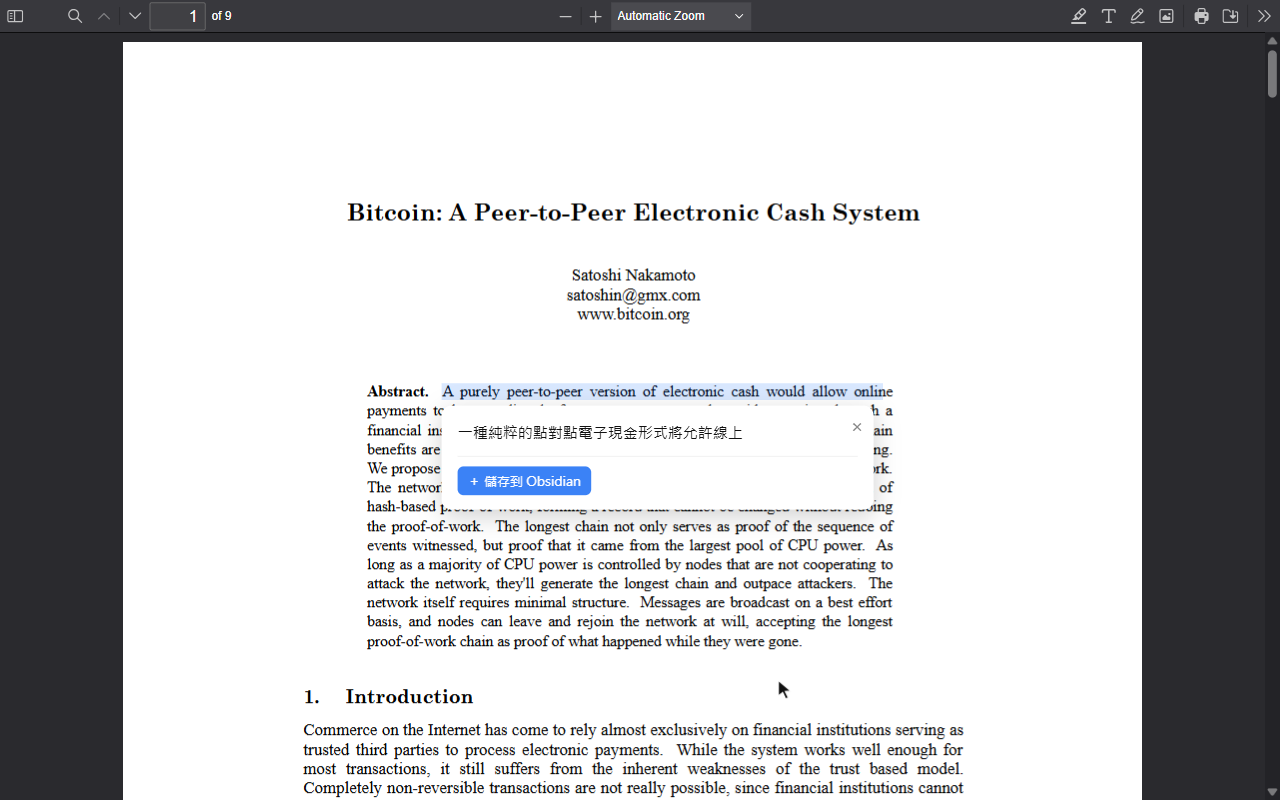
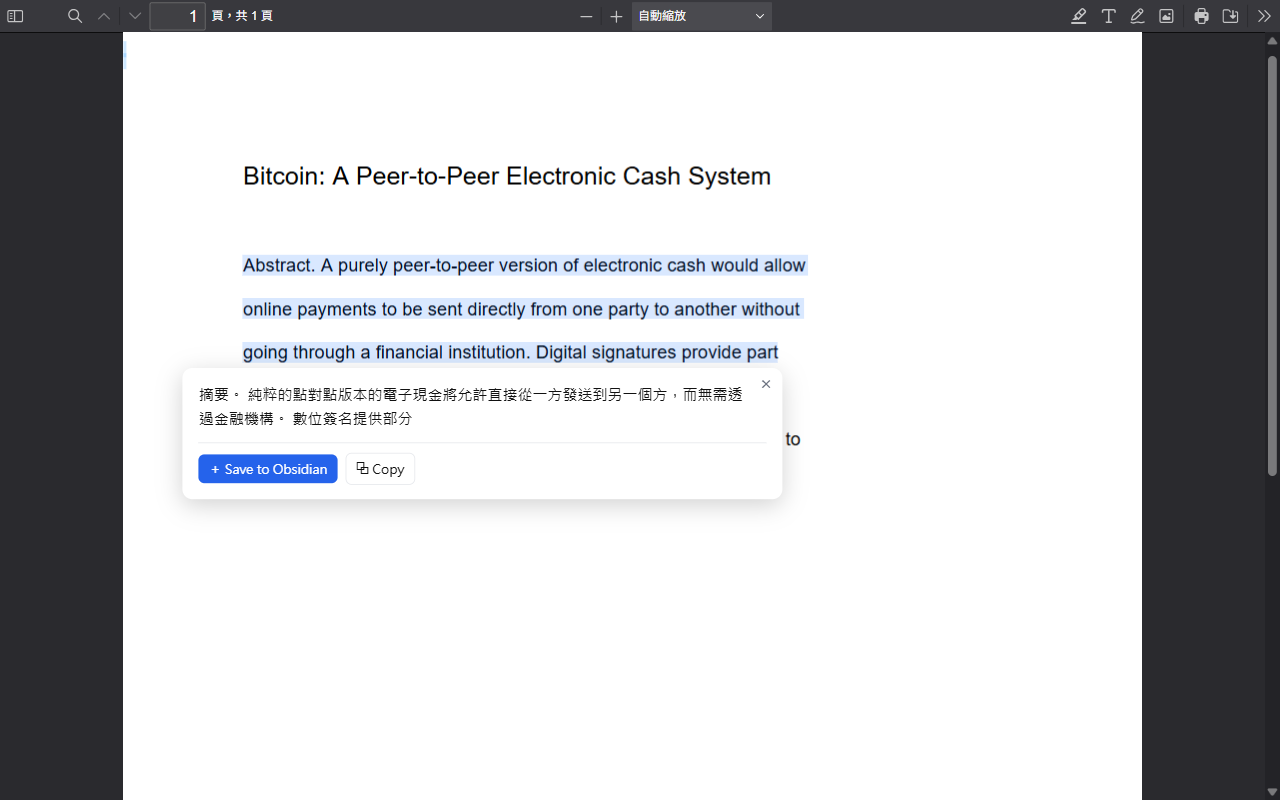
docs(store): re-shoot the listing screenshots, and fix copy that had gone wrong
The four store screenshots predated whole-page translation and showed an
Ollama-only product. Re-shot against 2.11.0 on the default built-in
engine, at exactly 1280x800, leading with whole-page bilingual
translation because the first screenshot is what appears in search
results.

The copy was worse than the images. It told the reader to set
OLLAMA_ORIGINS before starting the server — a step 2.5.0 removed — and
listed Ollama as a requirement, which 2.7.0 removed when Chrome's
built-in translator became the default. Both descriptions are rewritten
for what the extension is now: nothing to install, Ollama as the optional
stronger engine.

Also corrects a permissions claim that had quietly gone stale in three
places. The manifest ships storage, activeTab, contextMenus and
declarativeNetRequest plus <all_urls>; PRIVACY.md and the store's privacy
answers listed only the first two and the host permission, and the README
said "storage and activeTab". A missing justification is a rejected
submission, and an incomplete privacy policy is worse than that. All
three now list every permission, with declarativeNetRequest explained as
what it is: one session rule scoped to requests with no owning tab and to
the configured server's URL, so a web page's requests cannot match it.

PRIVACY.md also described every translation as going to an Ollama server.
On the default engine no network request is made at all, which is the
stronger claim and was the one missing.

diff --git a/PRIVACY.md b/PRIVACY.md
@@ -1,6 +1,6 @@
 # Privacy Policy — OpenRead
 
-_Last updated: 2026-07-10_
+_Last updated: 2026-08-06_
 
 OpenRead is a local-first browser extension. It is designed so that your data
 never leaves your machine.
@@ -13,21 +13,26 @@ receives no data of any kind from your use of the extension.
 
 ## What happens to the text you select
 
-When you trigger a translation (or an optional capture enrichment), the
-selected text is sent to **your own Ollama server** at the URL you configure in
-the popup — by default `http://localhost:11434`, i.e. your own computer.
-Inference runs entirely on that machine. The text is not sent to the developer
-or to any third party.
+It depends on which engine you have chosen in the popup.
 
-If you point the server URL at a remote machine, the text goes to that machine
-— which you chose and control.
+- **Chrome's built-in translator (the default).** The text is handed to
+  Chrome's own on-device translation model. It does not leave the browser, and
+  the extension makes no network request at all. Chrome downloads a language
+  pack from Google the first time you use a language pair; that download
+  carries the language pair, not your text.
+- **Ollama.** The text is sent to the server at the URL you configure — by
+  default `http://localhost:11434`, i.e. your own computer — and inference runs
+  on that machine. If you point the URL at a remote machine, the text goes to
+  that machine, which you chose and control.
+
+In neither case is the text sent to the developer or to any third party.
 
 ## What is stored, and where
 
-- **Settings** (Ollama server URL, model name, target language, Obsidian vault
-  and folder, enrichment toggle) are stored with `chrome.storage.sync`. They
-  stay inside your browser profile; Chrome may sync them across your own
-  signed-in browsers as with any extension setting.
+- **Settings** (engine, Ollama server URL, model name, target language,
+  Obsidian vault and folder, enrichment toggle) are stored with
+  `chrome.storage.sync`. They stay inside your browser profile; Chrome may sync
+  them across your own signed-in browsers as with any extension setting.
 - **Captured notes** ("Save to Obsidian") are written to your local Obsidian
   vault via the `obsidian://` URL scheme, or copied to your clipboard as a
   fallback. They are not transmitted anywhere else.
@@ -35,15 +40,26 @@ If you point the server URL at a remote machine, the text goes to that machine
 ## Permissions
 
 - `storage` — persist the settings above.
-- `activeTab` / host access on all sites — inject the selection-translate UI
-  on pages you read and route `.pdf` navigations into the bundled PDF.js
-  viewer. Page content is only read when you explicitly select text and click
-  the translate icon.
+- `activeTab` and host access on all sites — inject the selection-translate UI
+  on pages you read, translate a page when you ask for it, and route `.pdf`
+  navigations into the bundled PDF.js viewer. Page content is read only when
+  you select text and invoke a translation, or explicitly ask for the whole
+  page.
+- `contextMenus` — add the two right-click entries ("Translate selection with
+  OpenRead", "Translate this page with OpenRead"). It reads nothing.
+- `declarativeNetRequest` — strip the `Origin` header from **this extension's
+  own** requests to the Ollama server you configured, which is what removes the
+  `OLLAMA_ORIGINS` setup step. The rule is scoped to requests with no owning
+  tab and to that server's URL, so a web page's requests never match it and it
+  cannot be used to reach a local model on a page's behalf. It observes no
+  traffic: `declarativeNetRequest` acts on rules declared in advance and gives
+  the extension no visibility into your browsing.
 
 ## Remote code
 
-None. All code ships inside the extension package. The extension makes network
-requests only to the Ollama server URL you configure.
+None. All code ships inside the extension package. On the default engine the
+extension makes no network requests; on the Ollama engine it makes them only to
+the server URL you configure.
 
 ## Changes
 

diff --git a/docs/store/SUBMISSION.md b/docs/store/SUBMISSION.md
@@ -1,14 +1,11 @@
 # Chrome Web Store submission guide
 
 > **Everything in this guide is ready except the parts only you can do.** The
-> package builds, the listing copy is written and current as of 2.4.0, and the
-> privacy answers are drafted. What remains is a one-time **$5 developer
-> registration**, paid with your own card, and the upload from your own
-> account — account creation and payment are yours to perform, not something
-> to hand to a tool. Budget about 20 minutes plus review time.
->
-> One asset is genuinely outstanding: the four listing screenshots predate
-> whole-page translation. See the note in [`LISTING.md`](LISTING.md#graphics).
+> package builds, the listing copy and the four screenshots are current as of
+> 2.11.0, and the privacy answers are drafted. What remains is a one-time **$5
+> developer registration**, paid with your own card, and the upload from your
+> own account — account creation and payment are yours to perform, not
+> something to hand to a tool. Budget about 20 minutes plus review time.
 
 Everything below is prepared in this repo; the only steps that need a human are
 the developer account and the final clicks.
@@ -62,8 +59,10 @@ tab address exactly that. Typical turnaround is a few days.
   by hand — WXT excludes source maps and sets the layout the store expects.
 - Don't change the manifest permissions between review cycles unless necessary;
   every permission change re-triggers in-depth review.
-- The listing screenshots are real end-to-end captures (live Ollama + qwen3);
-  if they are re-shot, keep them honest — no mock-ups.
-- The listing screenshots are the store's shop window — the first one appears
-  in search results. As of 2.4.0 all four are stale (they predate whole-page
-  translation), so a re-shoot is part of submitting, not a nicety.
+- The listing screenshots are real end-to-end captures of the built extension
+  running in Chrome; if they are re-shot, keep them honest — no mock-ups.
+- The first screenshot is what appears in search results, so it leads with
+  whole-page bilingual translation rather than the settings popup.
+- Re-shoot them whenever the UI changes. The set before 2.11.0 showed an
+  Ollama-only product and no whole-page translation, which by then described
+  something the extension no longer was.

diff --git a/README.md b/README.md
@@ -121,9 +121,12 @@ Both run entirely on your machine. Switch in the popup; `ollama pull qwen3` and
 ## Privacy
 
 No account, no API key, no analytics, and no remote endpoint anywhere in the
-code. The only outbound request is to the Ollama server at the URL you
-configured, on your own machine, and only when you pick that engine.
-Permissions are `storage` and `activeTab`.
+code. On the default engine the extension makes no network request at all; on
+the Ollama engine, only to the server URL you configured, on your own machine.
+Permissions are `storage`, `activeTab`, `contextMenus` and
+`declarativeNetRequest` — the last one strips the `Origin` header from this
+extension's own requests to your Ollama server, scoped so a web page's requests
+can never match it. [Full policy](PRIVACY.md).
 
 ## Development
 
